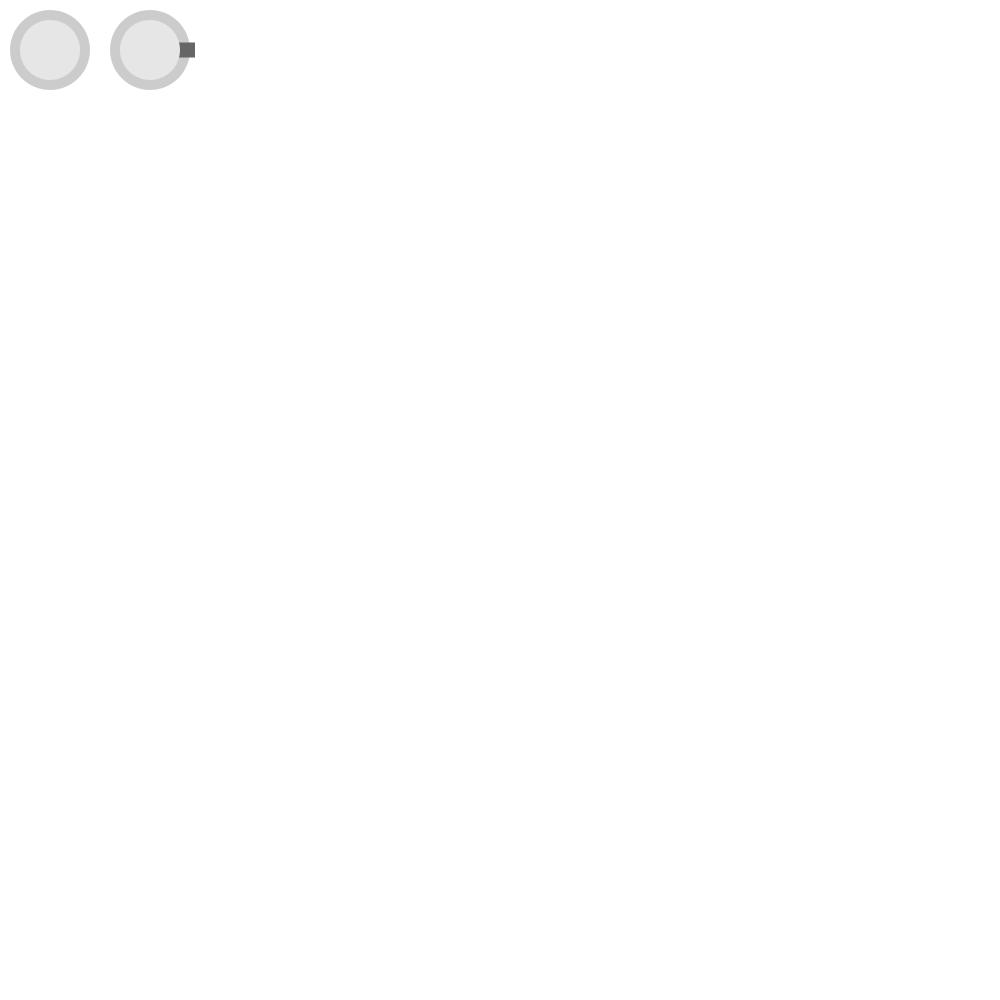
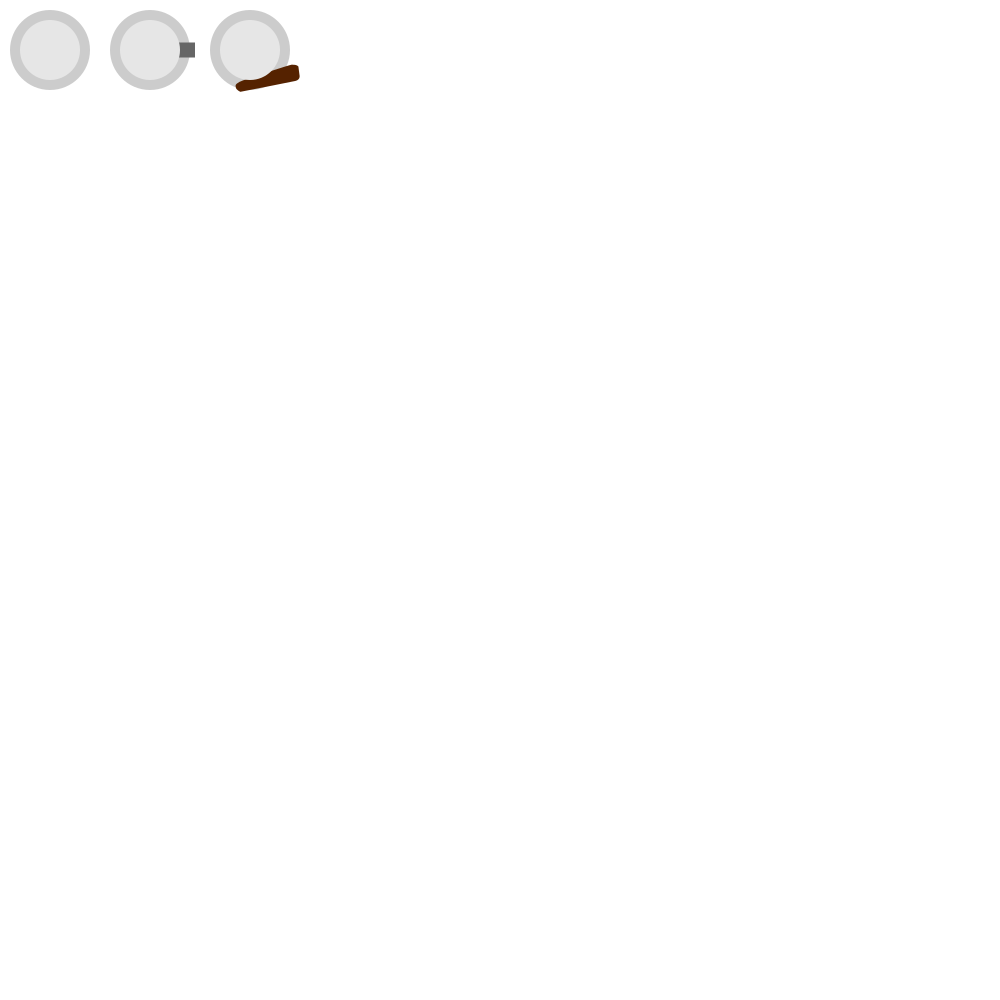
Feature: Bat Added

Changed region(s): [[0.186, 0.0, 0.31, 0.093]]

diff --git a/lib/include/DEAD_player.h b/lib/include/DEAD_player.h
@@ -1,11 +1,11 @@
 #pragma once
 
-#include <memory>
-#include "DEAD_item.h"
-#include "DEAD_weapon.h"
-#include "DEAD_map.h"
-#include "hitbox/DEAD_circle_hitbox.h"
 #include "DEAD_entity.h"
+#include "DEAD_item.h"
+#include "DEAD_map.h"
+#include "DEAD_weapon.h"
+#include "hitbox/DEAD_circle_hitbox.h"
+#include <memory>
 class DEAD_Game;
 
 class DEAD_Player : public DEAD_Entity {
@@ -14,15 +14,19 @@ public:
   ~DEAD_Player();
   SDL_Rect getTextureRect() override;
   void pickupOrDrop();
-  void summonPistol();
+  template <typename T> void summonWeapon() {
+    this->holdItem = std::make_shared<T>(
+        std::static_pointer_cast<DEAD_Player>(DEAD_Entity::shared_from_this()));
+  }
+
   void setGame(std::shared_ptr<DEAD_Game> game) override = 0;
   void move(double x, double y) override;
   void reloadGun();
+
 protected:
   void attack();
+
 private:
   void pickupWeapon();
   void dropWeapon();
-  
-  
 };

diff --git a/lib/src/weapons/DEAD_bat.cpp b/lib/src/weapons/DEAD_bat.cpp
@@ -1,0 +1,29 @@
+#include "DEAD_weapon.h"
+#include <memory>
+#include <weapons/DEAD_bat.h>
+#include <DEAD_player.h>
+
+DEAD_Bat::DEAD_Bat(std::shared_ptr<DEAD_Player> owner) :
+  DEAD_Weapon(owner) {
+
+}
+
+void DEAD_Bat::attack() {}
+
+SDL_Rect DEAD_Bat::getTextureRect() {
+  SDL_Rect rect = {.x=200, .y=0, .w=100, .h=100};
+  return rect;
+}
+
+SDL_Rect DEAD_Bat::getItemTextureRect() {
+  SDL_Rect rect = {.x=100, .y=0, .w=100, .h=100};
+  return rect;
+}
+
+std::shared_ptr<DEAD_ItemDrop> DEAD_Bat::getItemDrop() {
+  if (this->itemDrop == nullptr) {
+    this->itemDrop = std::make_shared<DEAD_ItemDrop>(shared_from_this(), this->getPlayer()->getPos());
+  }
+
+  return this->itemDrop;
+}

diff --git a/lib/src/DEAD_controllable_player.cpp b/lib/src/DEAD_controllable_player.cpp
@@ -10,6 +10,7 @@
 #include <guns/DEAD_pistol.h>
 #include <DEAD_controllable_player.h>
 #include <DEAD_game.h>
+#include <weapons/DEAD_bat.h>
 #include <iostream>
 #include <memory>
 
@@ -33,8 +34,8 @@ void DEAD_ControllablePlayer::playerEvents(SDL_Event event) {
       this->pickupOrDrop();
       break;
     case SDLK_g:
-      SDL_Log("Summon Pistol");
-      this->summonPistol();
+      SDL_Log("Summon Weapon");
+      this->summonWeapon<DEAD_Bat>();
       break;
     case SDLK_v:
       this->getGame()->getMap()->getMapSpawner()->randomSpawnAZombie();

diff --git a/lib/src/DEAD_player.cpp b/lib/src/DEAD_player.cpp
@@ -19,10 +19,6 @@ void DEAD_Player::move(double x, double y) {
   }
 }
 
-void DEAD_Player::summonPistol() {
-  this->holdItem = std::make_shared<DEAD_Pistol>(std::static_pointer_cast<DEAD_Player>(DEAD_Entity::shared_from_this()));
-}
-
 void DEAD_Player::pickupOrDrop() {
   if (this->holdItem != nullptr) {
     this->dropWeapon();

diff --git a/lib/include/weapons/DEAD_bat.h b/lib/include/weapons/DEAD_bat.h
@@ -1,0 +1,9 @@
+#include "../DEAD_weapon.h"
+class DEAD_Bat : public DEAD_Weapon {
+public:
+  DEAD_Bat(std::shared_ptr<DEAD_Player> owner);
+  void attack() override;
+  SDL_Rect getTextureRect() override;
+  SDL_Rect getItemTextureRect() override;
+  std::shared_ptr<DEAD_ItemDrop> getItemDrop() override;
+};
